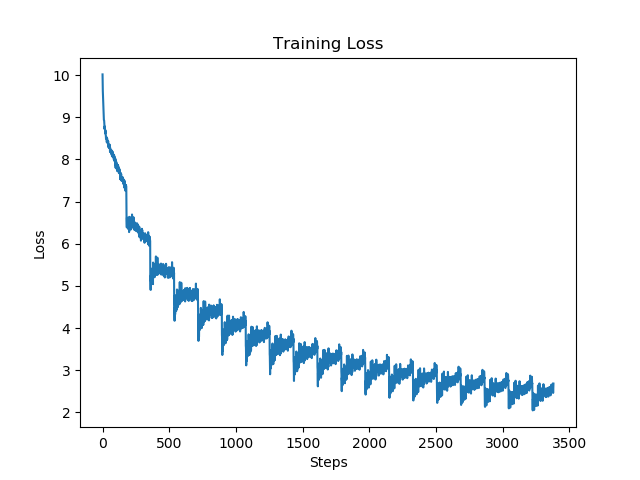
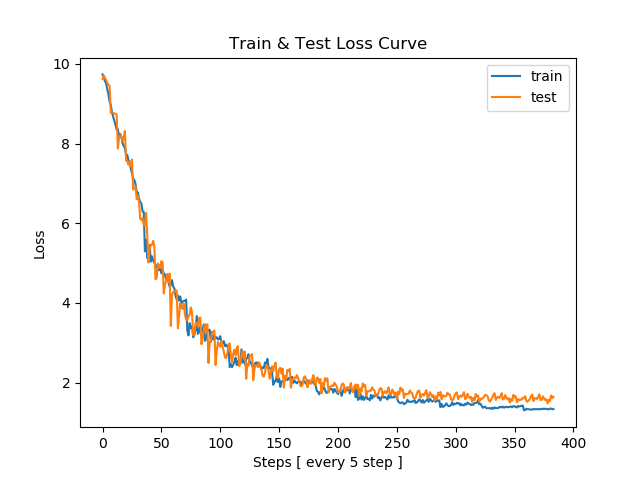
model training complete

diff --git a/transformer/trainer.py b/transformer/trainer.py
@@ -4,11 +4,14 @@ import torch.nn.functional as F
 import torch.optim as optim
 import matplotlib.pyplot as plt
 import pickle
+import numpy as np
 
 class Trainer():
-    def __init__(self, config, dataset, model):
+    def __init__(self, config, dataset, model, evaluator):
         self.config = config
         self.dataset = dataset
+        self.test_gen = iter(dataset.TEST)
+        self.evaluator = evaluator
         self.model = model
         print('\n\n')
 
@@ -26,18 +29,21 @@ class Trainer():
             loss = -(one_hot * log_prb).sum(dim=1).mean()
             return loss
 
+        if self.config.hard_labels :
+            criterion = nn.CrossEntropyLoss()
+        else :
+            criterion = smooth_label_loss
+
+        optimizer = optim.Adam(self.model.parameters(), betas=(0.9, 0.98), eps=1e-9, lr=self.config.learning_rate)
         dynamic_lr = lambda step :  self.config.lr_scale * (self.config.emb_dim)**(-1/2) * \
                                    min((step+1)**(-1/2), (step+1) * self.config.warmup_steps**(-3/2))
-
-        criterion = nn.CrossEntropyLoss()
-        optimizer = optim.Adam(self.model.parameters(), betas=(0.9, 0.98), eps=1e-9, lr=self.config.learning_rate)
         if self.config.use_dynamic_lr:
             scheduler = optim.lr_scheduler.LambdaLR(optimizer,dynamic_lr)
 
         if self.config.reset_model :
-            losses = []
+            tr_losses, te_losses = [], []
         else :
-            with open('./out/losses.pkl', 'rb') as f : losses = pickle.load(f)
+            with open('./out/losses.pkl', 'rb') as f : tr_losses, te_losses = pickle.load(f)
             f.close()
 
         steps = 0
@@ -46,55 +52,65 @@ class Trainer():
                 fr = batch.fr  # sentence length * batch size
                 en = batch.en  # sentence length * batch size
 
-                # self.model(input, target)
+                # self.model(src, trg)
                 out = self.model(fr, en)  # batch size * sentence length * vocab size
                 out = out.transpose(1,2)  # batch size * vocab size * sentence length
-                pred = torch.argmax(out, dim=1)
-                en = en.transpose(0,1)  # batch size * sentence length
+                tgt = en.transpose(0,1)  # batch size * sentence length
 
                 optimizer.zero_grad()
-                if self.config.hard_labels :
-                    loss = criterion(out, en)
-                else :
-                    loss = smooth_label_loss(out, en)
+                loss = criterion(out, tgt)
                 loss.backward()
-                losses.append(loss.item())
 
                 if self.config.use_dynamic_lr :
                     scheduler.step()
                 optimizer.step()
 
-                print('EPOCH {0} [ batch {1} ] : LOSS = {2:.5f} | LR = {3}'
-                      .format(epoch+1, idx+1, loss.item(), optimizer.param_groups[0]['lr']))
+                # train evaluation
+                self.evaluator.evaluate(epoch, idx, steps, self.model, fr, en, loss.item(), optimizer, mode='TRAIN')
 
+                # a rather rough way to keep the test set generator going without StopIteration
+                try :
+                    te_bat = next(self.test_gen)
+                except StopIteration:
+                    self.test_gen = iter(self.dataset.TEST)
+                    te_bat = next(self.test_gen)
+
+                # test evaluation
+                if steps % self.config.test_step == 0 :
+                    te_loss = self.evaluator.evaluate(None, None, steps, self.model, te_bat.fr, te_bat.en, criterion, None, mode='TEST')
+                    tr_losses.append(loss.item())
+                    te_losses.append(te_loss)
+                    self.plot_figures(tr_losses, te_losses)
+
+                # save models and plot losses
                 if steps % self.config.save_step == self.config.save_step-1 :
                     torch.save(self.model, './out/{}.mdl'.format(self.config.model_name))
-                    with open('./out/losses.pkl','wb') as f : pickle.dump(losses, f)
+                    with open('./out/losses.pkl','wb') as f : pickle.dump([tr_losses, te_losses], f)
                     f.close()
-                if steps % self.config.print_step == 0 :
-                    self.print_example(fr.transpose(0,1), en, pred)
-                    self.plot_figures(losses)
+
                 steps += 1
 
-    def plot_figures(self, losses):
-        plt.plot(losses)
-        plt.title('Training Loss')
-        plt.xlabel('Steps')
+                # early stop
+                converged = self.early_stop(te_losses)
+                if converged :
+                    break
+            if converged:
+                print('Model Converged...')
+                break
+
+    def early_stop(self, losses):
+        if len(losses) > 100 :
+            if np.mean(losses[-50:]) < np.mean(losses[-20:]) :
+                return True
+            else :
+                return False
+
+    def plot_figures(self, tr_losses, te_losses):
+        plt.plot(tr_losses)
+        plt.plot(te_losses)
+        plt.title('Train & Test Loss Curve')
+        plt.xlabel('Steps [ every {} step ]'.format(self.config.test_step))
         plt.ylabel('Loss')
+        plt.legend(['train','test'])
         plt.savefig('./img/loss.png')
         plt.close()
-
-    def print_example(self, fr, en, pred):
-        print('\n\n\n### EXAMPLE ###')
-        expl = []
-        for output, target, input in zip(pred, en, fr):
-            o = ' '.join([self.dataset.en_vocab.vocab.itos[word] for word in output])
-            t = ' '.join([self.dataset.en_vocab.vocab.itos[word] for word in target])
-            i = ' '.join([self.dataset.fr_vocab.vocab.itos[word] for word in input])
-            expl.append([o,t,i])
-        print('INPUT : \n',expl[0][2])
-        print('\n')
-        print('TARGET : \n',expl[0][1])
-        print('\n')
-        print('OUTPUT : \n',expl[0][0])
-        print('\n\n\n')

diff --git a/transformer/evaluator.py b/transformer/evaluator.py
@@ -1,6 +1,40 @@
-
+import torch
 
 class Evaluator():
-    def __init__(self, config):
+    def __init__(self, config, dataset):
         self.config = config
+        self.dataset = dataset
 
+    def evaluate(self, epoch, idx, steps, model, src, tgt, loss, optimizer, mode):
+        model.eval()
+
+        if mode == 'TRAIN' :
+            print('EPOCH {0} [ batch {1} / {2} ]  TRAIN LOSS = {3:.5f} | LR = {4:.7f}'
+                  .format(epoch + 1, idx + 1, len(self.dataset.TRAIN), loss, optimizer.param_groups[0]['lr']))
+        elif mode == 'TEST' :
+            out = model(src, tgt)
+            target = tgt.transpose(0,1)
+            l = loss(out.transpose(1,2), target).item()
+            print('                             TEST  LOSS = {0:.5f}'.format(l))
+
+            if steps % self.config.print_step == 0:
+                out = model(src, tgt)
+                pred = torch.argmax(out.transpose(1,2), dim=1)
+                self.print_example(src.transpose(0, 1), tgt.transpose(0,1), pred, mode)
+            return l
+
+
+    def print_example(self, fr, en, pred, mode):
+        print('\n\n\n### {} EXAMPLE ###'.format(mode))
+        expl = []
+        for output, target, input in zip(pred, en, fr):
+            o = ' '.join([self.dataset.en_vocab.vocab.itos[word] for word in output])
+            t = ' '.join([self.dataset.en_vocab.vocab.itos[word] for word in target])
+            i = ' '.join([self.dataset.fr_vocab.vocab.itos[word] for word in input])
+            expl.append([o,t,i])
+        print('INPUT : \n',expl[0][2])
+        print('\n')
+        print('TARGET : \n',expl[0][1])
+        print('\n')
+        print('OUTPUT : \n',expl[0][0])
+        print('\n\n\n')

diff --git a/transformer/main.py b/transformer/main.py
@@ -12,7 +12,7 @@ THINGS TO TALK ABOUT ON 1.28
 3. Label Smoothing
 4. Save & Load Models
 5. Dynamic Learning Rate --> Did not turn out nice --> scaling parameter added 
-6. Miscellaneous : plot losses & print out examples
+6. Miscellaneous : plot losses & print out examples & early stop
 7. Q: further NLP preprocessing needed?  cf. punctuations : blank space in front of question/exclamation marks in French
 """
 
@@ -20,7 +20,10 @@ from config import get_args
 from dataset import Dataset
 from model import Transformer
 from trainer import Trainer
+from evaluator import Evaluator
 import torch
+import warnings
+warnings.filterwarnings('ignore')
 
 def get_model(config, dataset):
     if config.reset_model :
@@ -33,7 +36,8 @@ def main():
     config = get_args()
     dataset = Dataset(config)
     model = get_model(config, dataset)
-    trainer = Trainer(config, dataset, model)
+    evaluator = Evaluator(config, dataset)
+    trainer = Trainer(config, dataset, model, evaluator)
     trainer.train()
 
 if __name__ == '__main__' :

diff --git a/transformer/dataset.py b/transformer/dataset.py
@@ -76,7 +76,9 @@ class Dataset():
         self.fr_vocabsize = len(FRENCH.vocab)
 
         if self.config.debug :
-            train_loader, test_loader = Iterator.splits((train, test), batch_size=2, device="cuda", shuffle=False)
+            train_loader, test_loader = Iterator.splits((train, test), batch_size=2, device="cuda", shuffle=False,
+                                                        sort_key=lambda x : len(x.en), sort_within_batch=False)
         else :
-            train_loader, test_loader = Iterator.splits((train, test), batch_size=self.config.batchsize, device="cuda", shuffle=False)
+            train_loader, test_loader = Iterator.splits((train, test), batch_size=self.config.batchsize, device="cuda", shuffle=False,
+                                                        sort_key=lambda x : len(x.en), sort_within_batch=False)
         return train_loader, test_loader

diff --git a/transformer/config.py b/transformer/config.py
@@ -33,6 +33,7 @@ def get_args():
     argp.add_argument('--lr_scale', type=int, default=1e+5)   # for dynamic lr
     argp.add_argument('--print_step', type=int, default=10)
     argp.add_argument('--save_step', type=int, default=10)
+    argp.add_argument('--test_step', type=int, default=5)
     argp.add_argument('--hard_labels', action='store_true', default=False)  # to turn off label smoothing
     argp.add_argument('--smooth_rate', type=float, default=0.1)  # for label smoothing
 
